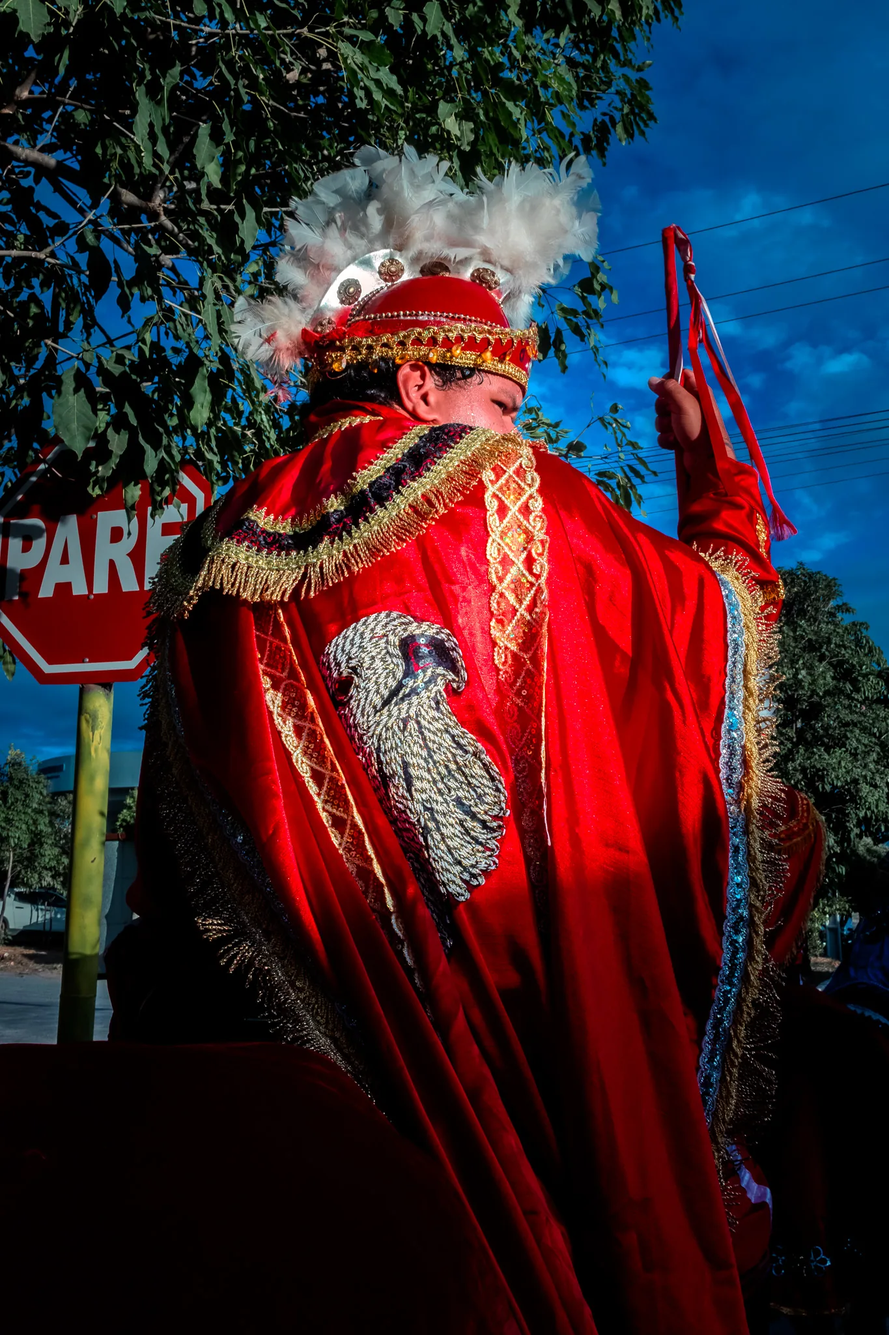
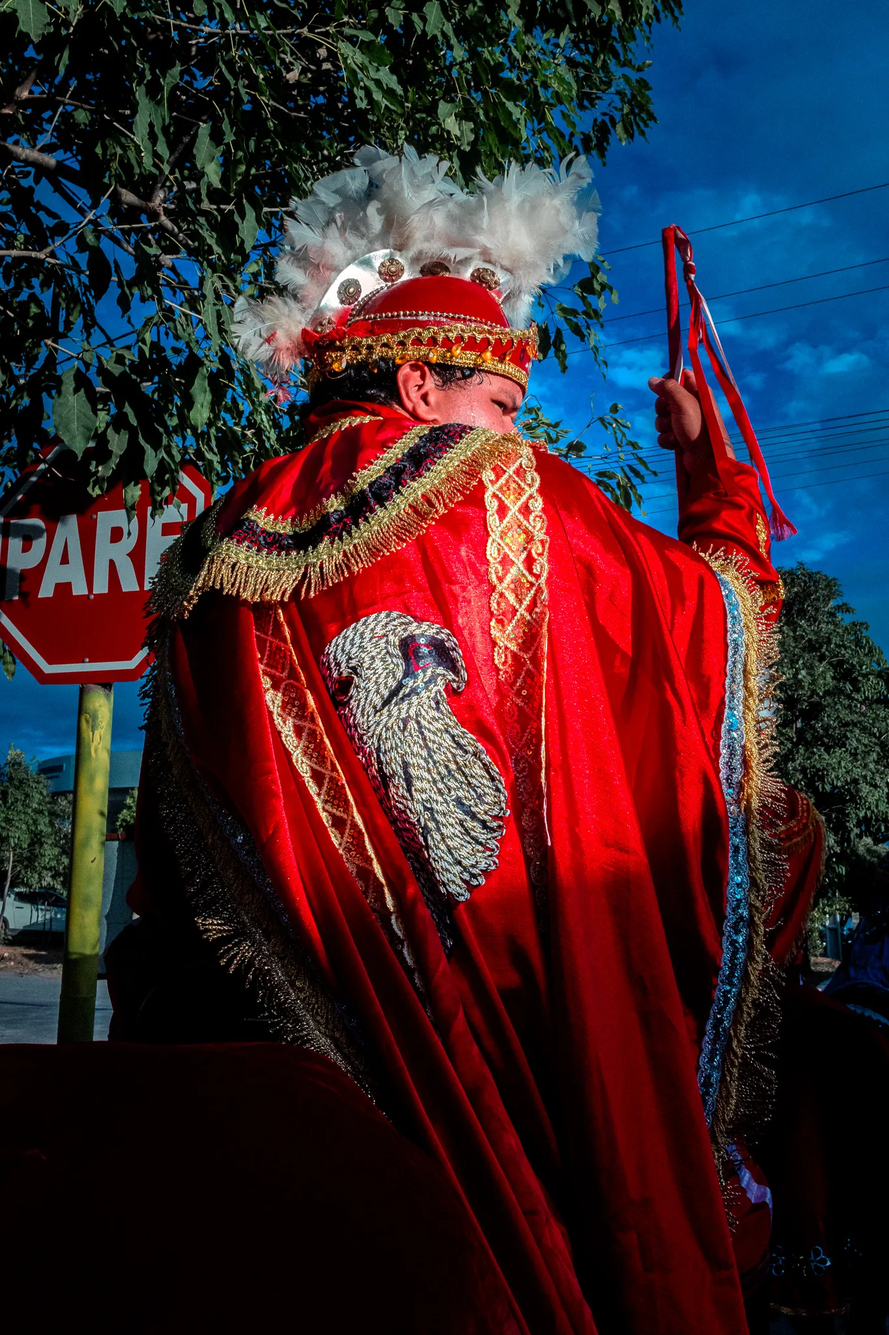
update: zine, materia de Posse com as 14 fotos na pos finalizada (SAIDA OUT:10); anteriores em _ARQUIVO

diff --git a/public/images/editorial/country-side/_CREDITOS.md b/public/images/editorial/country-side/_CREDITOS.md
@@ -61,3 +61,12 @@ nativos (1365 px de largura), só o `_MG_0645` e o panorama foram reduzidos.
 O `_MG_0645` (carro rosa com os palhaços em cima) NÃO entrou no corpo: é a foto
 que o fundador está usando na capa, no Photoshop. Repetir capa dentro da
 matéria é a coisa que mais denuncia acervo curto.
+
+## Troca pela pós finalizada (26/10/2026)
+
+O fundador finalizou as fotos em `/Volumes/TAV05/0. TBF inc/RAW/TBF GOIÁS COOLHUNTING
+PACK/SAÍDA - OUT:10` (62 JPEG). Os 14 arquivos do corpo (01 a 07, 09 a 15) foram
+refeitos dessa pasta, mesma fonte `_MG` da tabela acima, mesma conversão (WebP `q82`,
+`method=6`, sem metadados, largura até 1920 px). Dimensões iguais, então o `.ts` não
+mudou. As versões anteriores estão em `public/_ARQUIVO/country-side-pre-out10/`.
+A `08-cavalhada-panorama` segue fora do site e não foi trocada.
